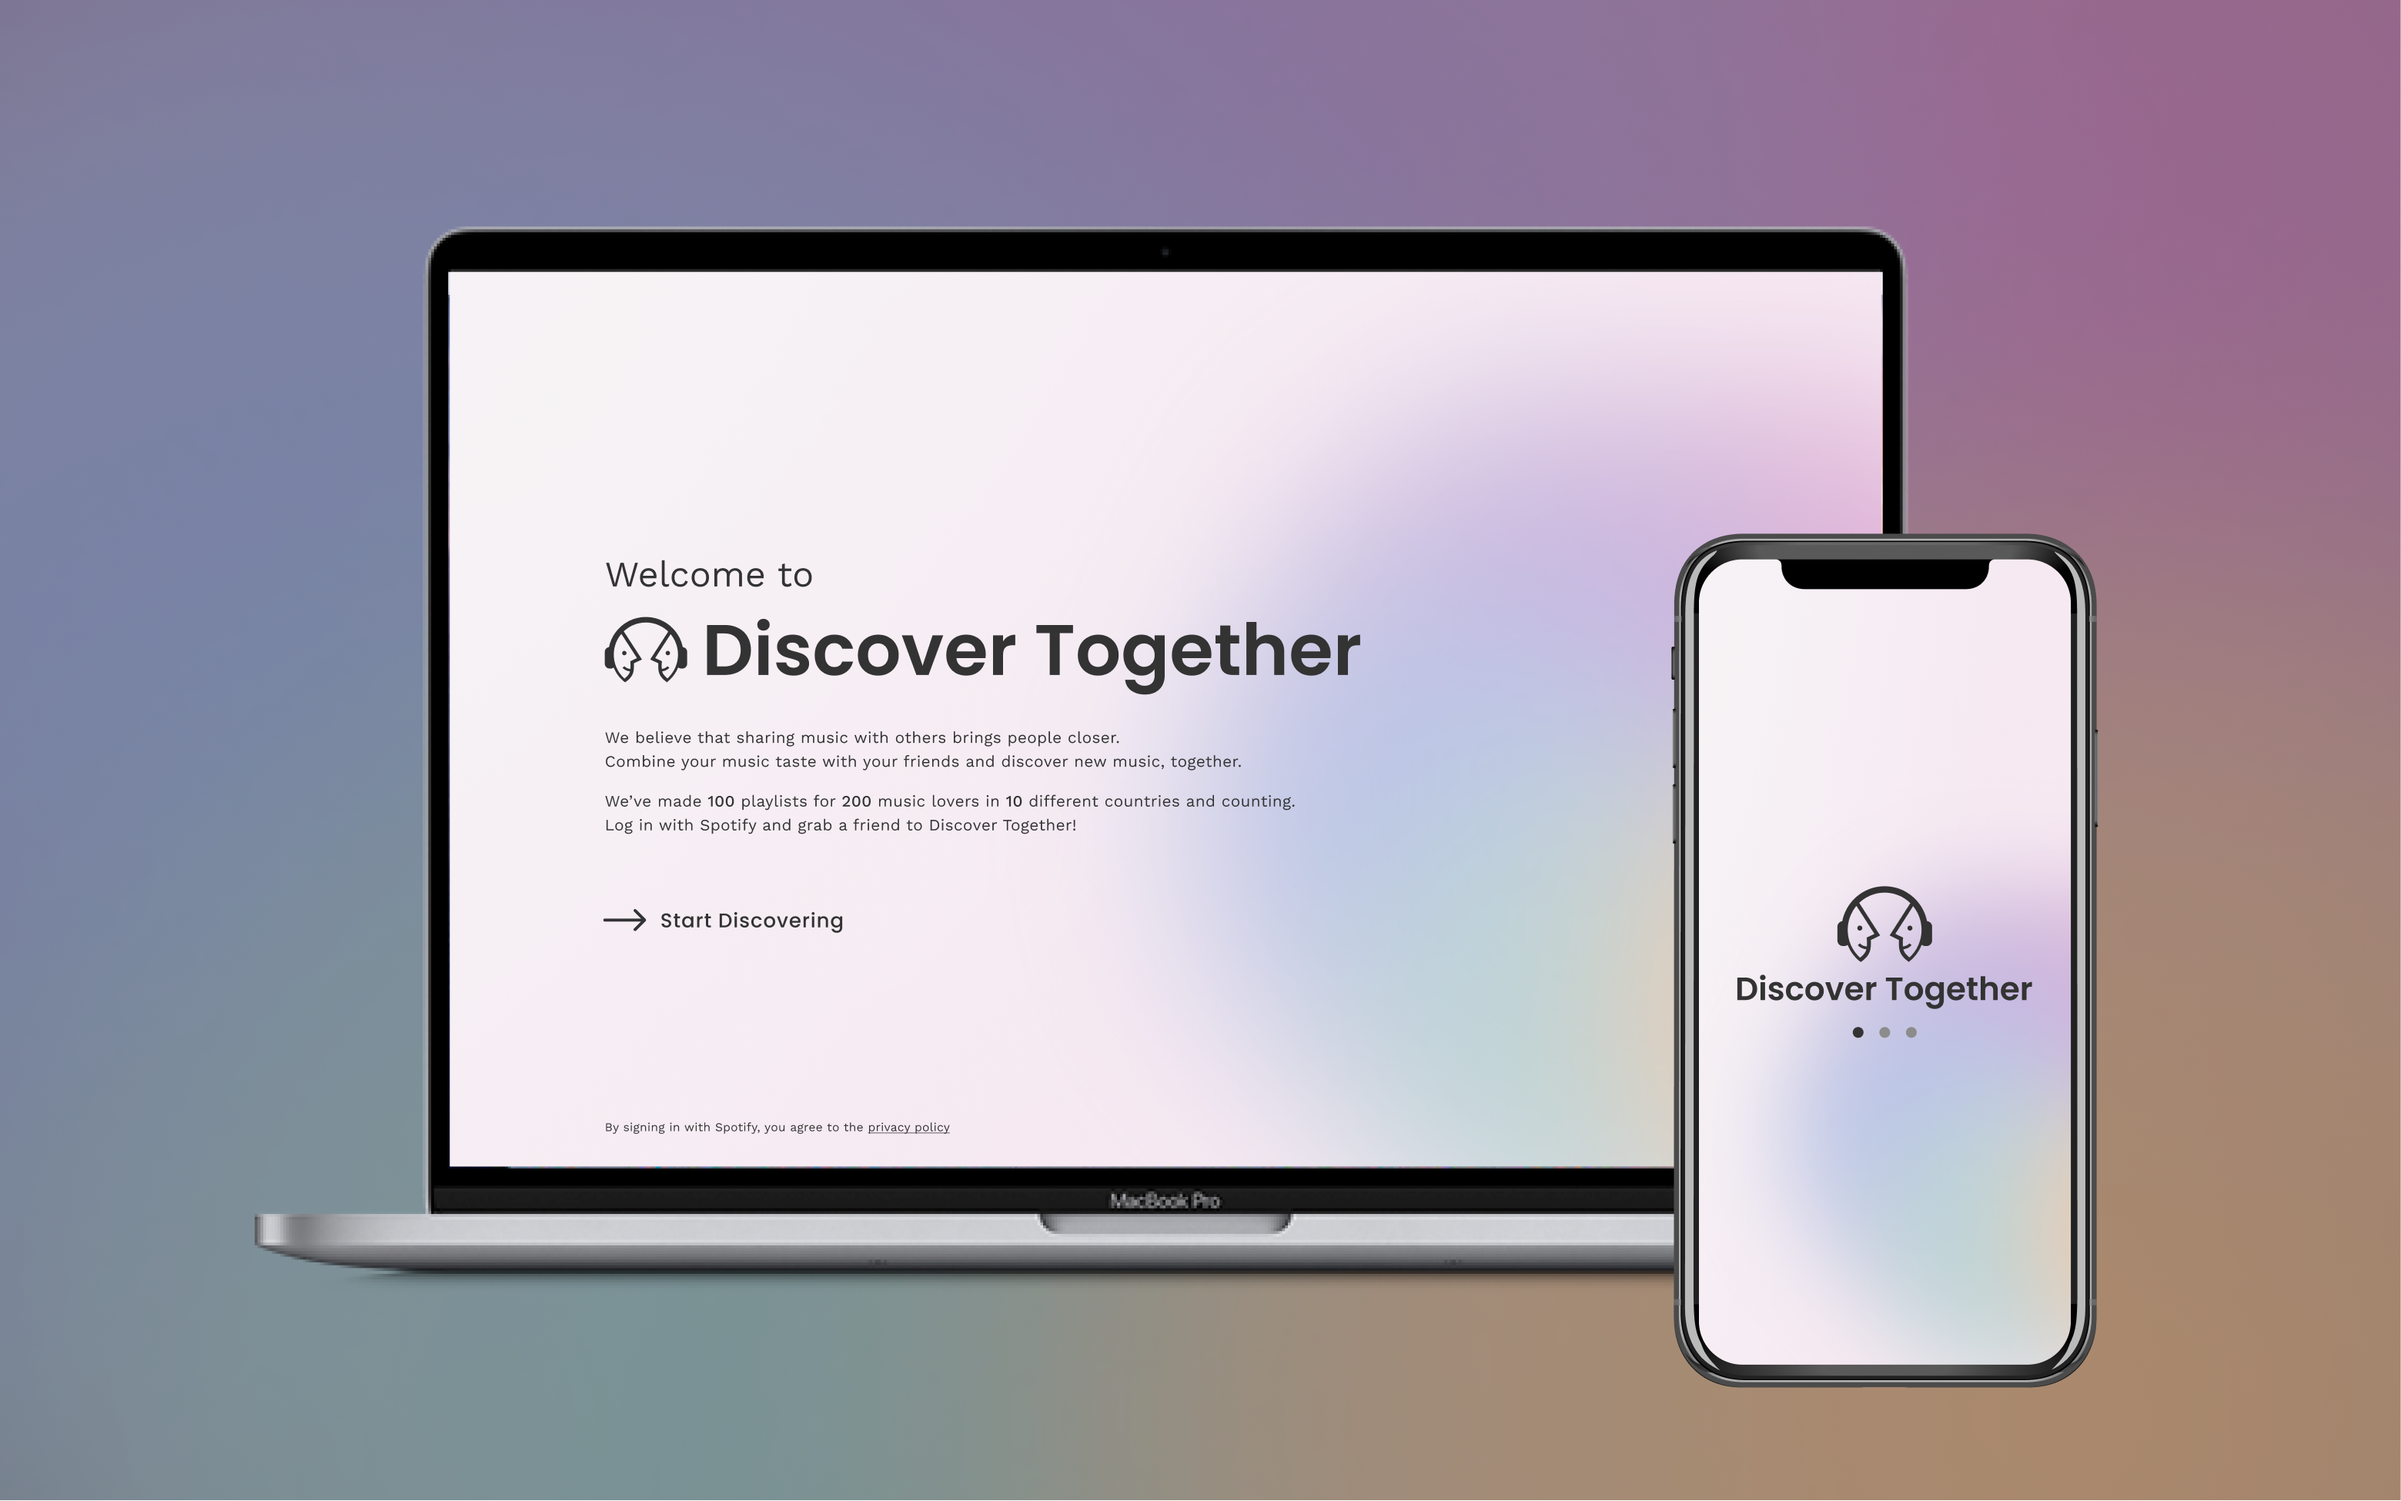
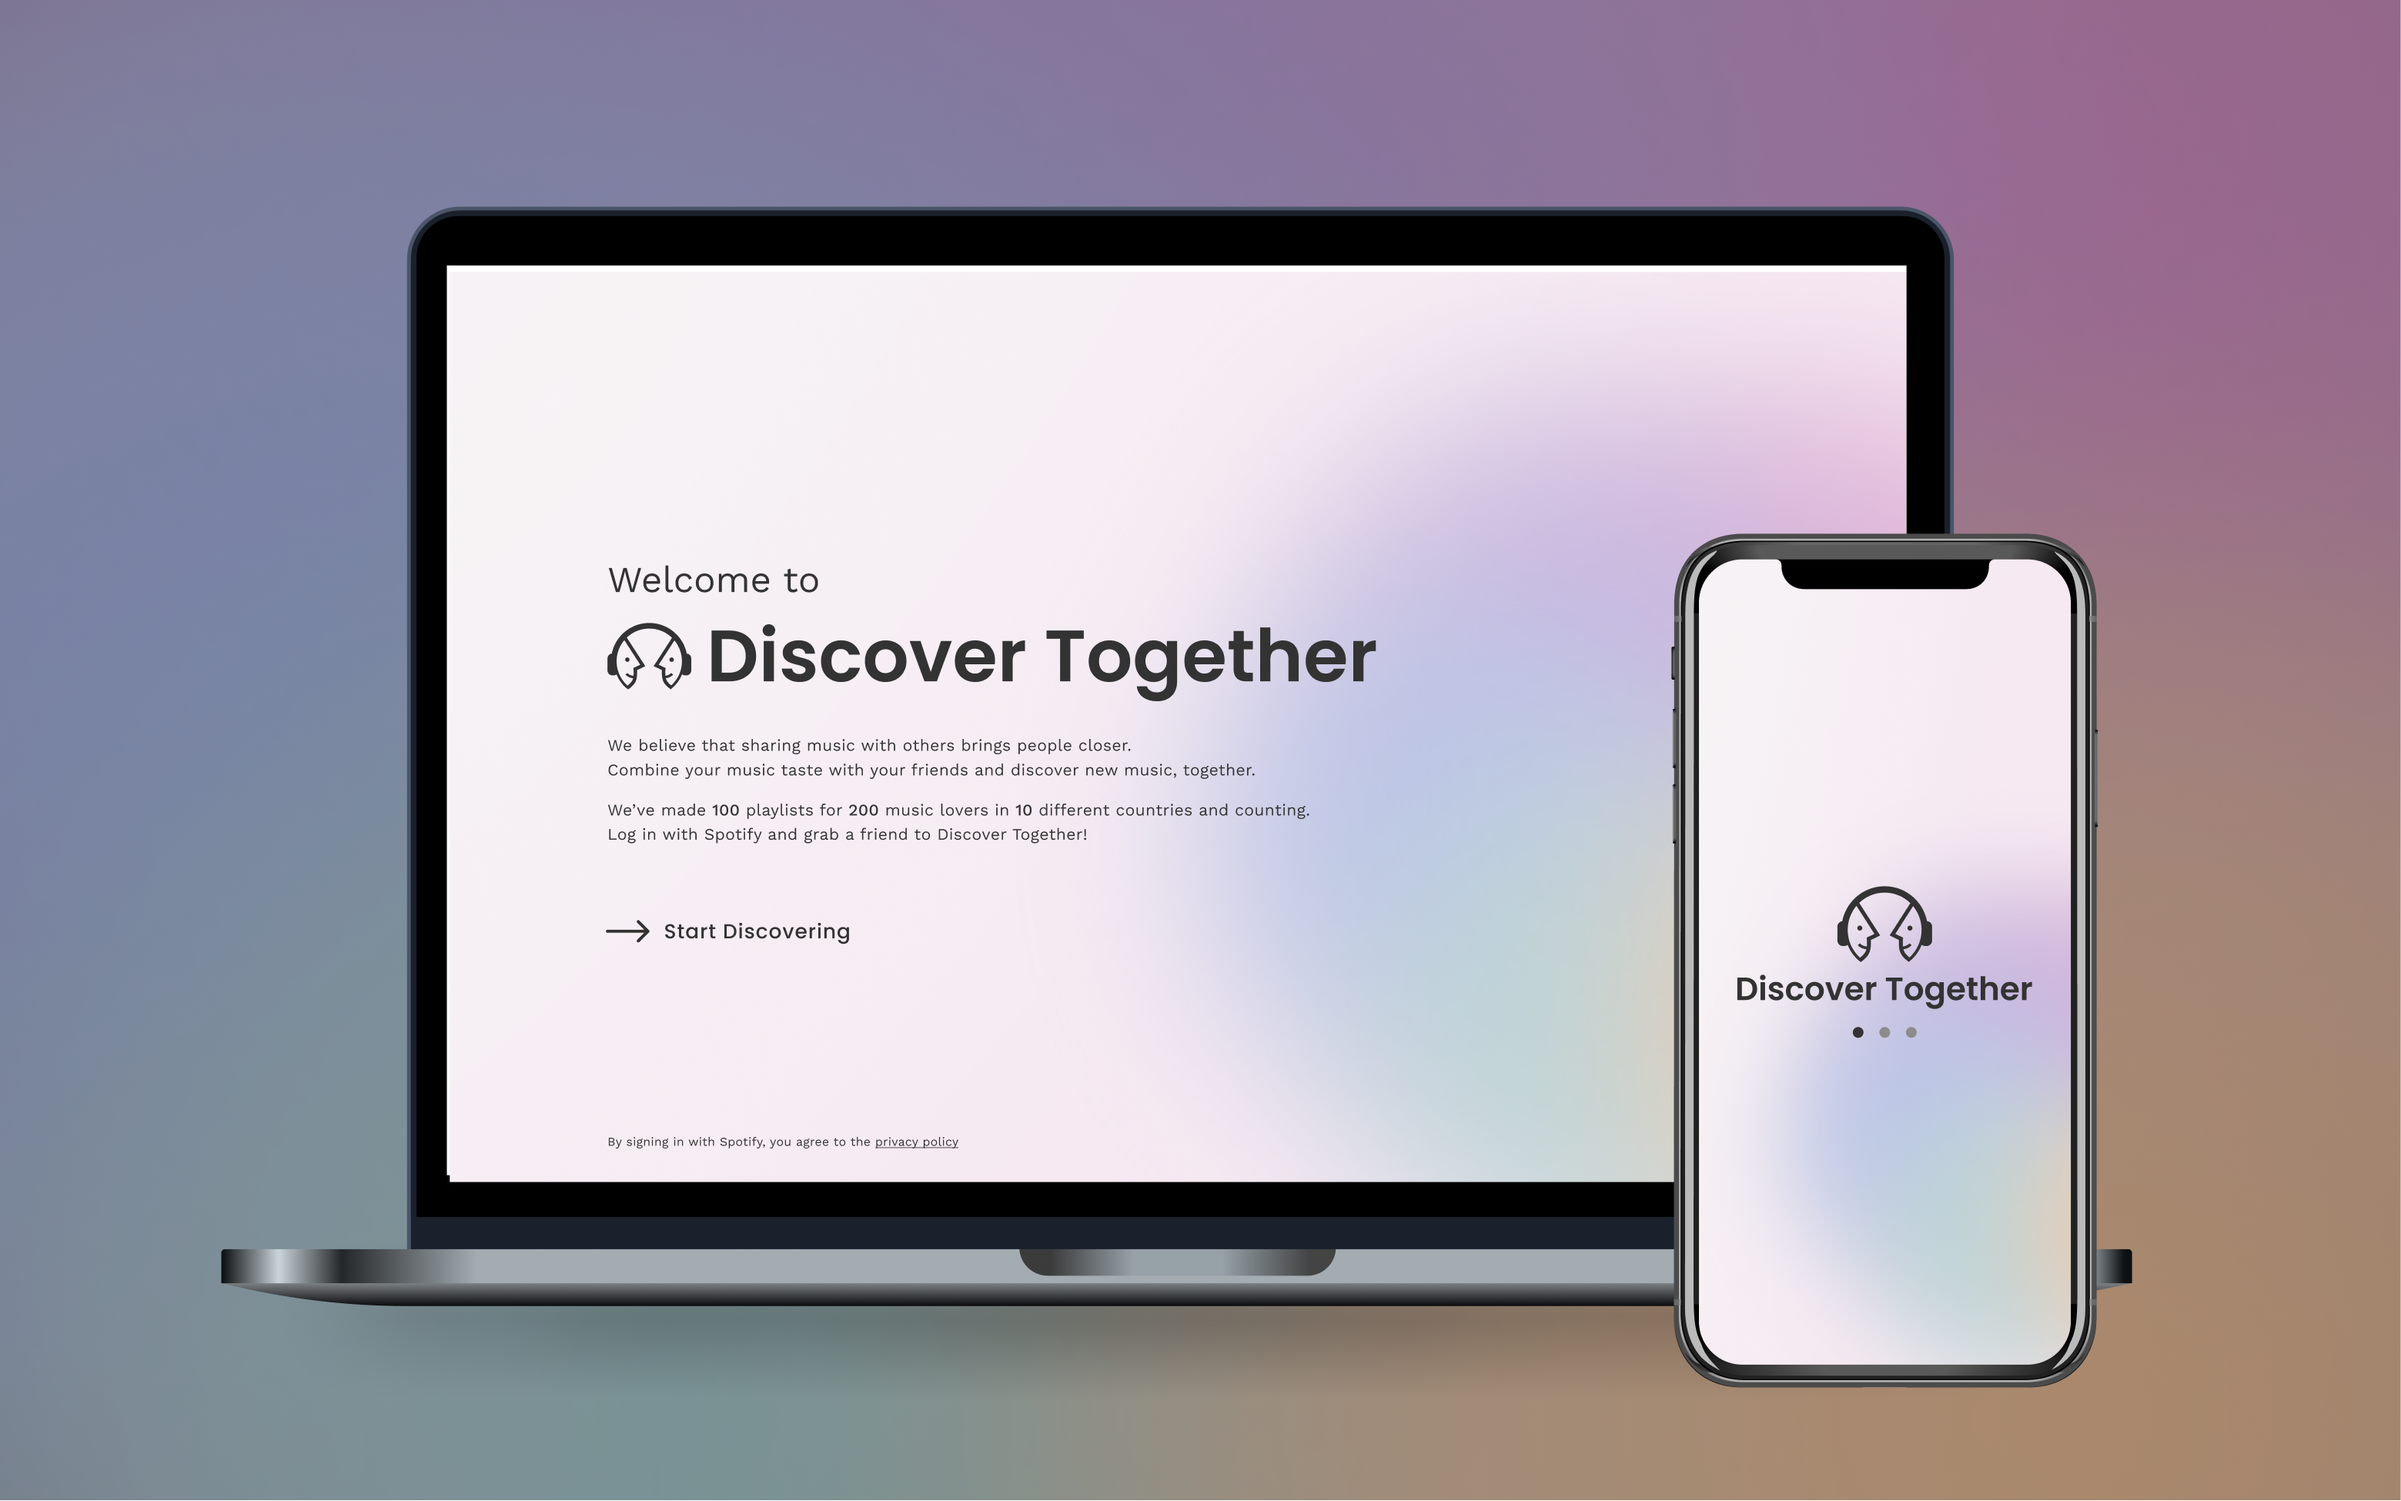
new changes

diff --git a/projects/spotify.html b/projects/spotify.html
@@ -22,6 +22,8 @@
 
     <!--GOOGLE FONTs-->
     <link href="https://fonts.googleapis.com/css2?family=Poppins:wght@200;300;400;500;600;700&display=swap" rel="stylesheet">
+    <link rel="preconnect" href="https://fonts.gstatic.com">
+    <link href="https://fonts.googleapis.com/css2?family=Merriweather:wght@700&display=swap" rel="stylesheet">
 
     <!--BOOTSTRAP-->
     <link rel="stylesheet" href="https://maxcdn.bootstrapcdn.com/bootstrap/4.4.1/css/bootstrap.min.css">
@@ -50,38 +52,33 @@
         </ul>
     </div>
 
+    <div class="proj-images">
+        <img src="spotify-assets/main-photo.png" alt="Discover Together">
+    </div>
+
     <div class="project">
-        <!-- sidebar -->
-        <div class="side-info">
-            <div class="fixed">
-                <h1>Discover Together</h1>
-
-                <h2>Objective</h2>
-                <p>Provide a platform to analyze two people's Spotify music tastes, then curate a playlist made specifically for them. </p>
-
-                <h2>Team</h2>
-                <p style="margin-bottom: 0"> <a class="highlight" href="https://www.linkedin.com/in/arjun-reddy-data-scientist/">Arjun Reddy (Engineer)</a>,</p>
-                <p style="margin-bottom: 0"> <a class="highlight" href="https://www.linkedin.com/in/trustinyoon/">Trustin Yoon (Engineer)</a>,</p>
-                <p style="margin-bottom: 0"> <a class="highlight" href="https://www.linkedin.com/in/niyant-n/">Niyant Narang (Engineer)</a>,</p>
-                <p style="margin-bottom: 0"> <a class="highlight" href="https://www.linkedin.com/in/lamvpham/">Lam Pham (Designer)</a>,</p>
-                <p style="margin-bottom: 0"> <a class="highlight" href="https://www.linkedin.com/in/connect-ann-li/">Ann Li (Designer)</a>,</p>
-                <p> <a a class="highlight" href="https://www.linkedin.com/in/lucasabroms/">Lucas Abroms (Engineer)</a></p>
-
-                <h2>Role</h2>
-                <p>Interaction Design, Prototyping, UI/UX Design, Visual Design, Data Visualization</p>
-
-                <h2>Tools</h2>
-                <p>Figma</p>
-
-                <h2>Duration</h2>
-                <p>6 weeks, Fall 2020</p>
-            </div>
-        </div>
-
         <!-- content -->
         <div class="proj-content">
-            <div class="proj-images">
-                <img src="spotify-assets/main-photo.png" alt="Discover Together" style="margin-top: 5px;">
+
+            <div class="section">
+                <div class="proj-text">
+                    <div class="text-group title">
+                        <h1>Discover Together</h1>
+                        <h2>A platform to analyze two people's Spotify music tastes, then curate a playlist made specifically for them.</h2>
+                    </div>
+                </div>
+                <!-- <div class="text-container">
+                    <div class="row">
+                        <div class="col-md stats">
+                            <h3>Responsibility</h3>
+                            <h2>Interaction Design, Prototyping, UI/UX Design, Visual Design, Data Visualization</h2>
+                        </div>
+                        <div class="col-md stats">
+                            <h3>Duration</h3>
+                            <h2>6 weeks and counting, Fall 2020</h2>
+                        </div>
+                    </div>
+                </div> -->
             </div>
 
             <!-- context -->

diff --git a/index.html b/index.html
@@ -198,21 +198,7 @@
 
             <!-- project cards -->
 
-            <div class="container pjcontain edges margin-t-6" onclick="" style="cursor: pointer;">
-                <div class="hiddencard row">
-                    <img src="project-cards/labs.png" width="100%">
-                    <div class="pj-contain">
-                        <h4> Coming Soon ☺ </h4>
-                    </div>
-                </div>
-                <div class="pj-contain">
-                    <h2> Product Design</h2>
-                    <h1> Ceridian</h1>
-                    <h3> Currently on internship</h3>
-                </div>
-            </div>
-
-            <div class="container pjcontain edges" onclick="location.href='projects/spotify.html';" style="cursor: pointer;">
+            <div class="container pjcontain edges margin-t-6" onclick="location.href='projects/spotify.html';" style="cursor: pointer;">
                 <div class="hiddencard row">
                     <img src="project-cards/soundwave.png" width="100%">
                     <div class="pj-contain">
@@ -242,20 +228,6 @@
 
             <div class="container pjcontain edges" onclick="" style="cursor: pointer;">
                 <div class="hiddencard row">
-                    <img src="project-cards/synqrinus.png" width="100%">
-                    <div class="pj-contain">
-                        <h4> See work → </h4>
-                    </div>
-                </div>
-                <div class="pj-contain">
-                    <h2> Front-end Development </h2>
-                    <h1> Synqrinus</h1>
-                    <h3> Freelancing on company website constructions </h3>
-                </div>
-            </div>
-
-            <div class="container pjcontain edges" onclick="" style="cursor: pointer;">
-                <div class="hiddencard row">
                     <img src="project-cards/communifund.png" width="100%">
                     <div class="pj-contain">
                         <h4> Coming Soon ☺ </h4>
@@ -265,6 +237,20 @@
                     <h2> UX/UI Design </h2>
                     <h1> Communifund </h1>
                     <h3> Creating a platform meant for communities </h3>
+                </div>
+            </div>
+
+            <div class="container pjcontain edges" onclick="" style="cursor: pointer;">
+                <div class="hiddencard row">
+                    <img src="project-cards/synqrinus.png" width="100%">
+                    <div class="pj-contain">
+                        <h4> See work → </h4>
+                    </div>
+                </div>
+                <div class="pj-contain">
+                    <h2> Front-end Development </h2>
+                    <h1> Synqrinus</h1>
+                    <h3> Freelancing on company website constructions </h3>
                 </div>
             </div>
 

diff --git a/projects.css b/projects.css
@@ -1,104 +1,12 @@
 /* new code for project sections */
 
 .project {
-    margin-top: 5em;
-}
-
-.project {
-    position: relative;
-    left: 9.5%;
-    width: 84%;
-    display: flex;
+    margin: 0 auto;
+    width: 70%;
 }
 
 .main-nav {
-    width: 88vh;
-}
-
-@media (max-height:945px) {
-    .main-nav {
-        width: 90.5vh;
-    }
-}
-
-@media (max-height:935px) {
-    .main-nav {
-        width: 90vh;
-    }
-}
-
-@media (max-height:925px) {
-    .main-nav {
-        width: 89.5vh;
-    }
-}
-
-@media (max-height:915px) {
-    .main-nav {
-        width: 89vh;
-    }
-}
-
-@media (max-height:905px) {
-    .main-nav {
-        width: 88.5vh;
-    }
-}
-
-@media (max-height:900px) {
-    .main-nav {
-        width: 88vh;
-    }
-}
-
-
-/* fixed side */
-
-.project .side-info {
-    width: 35%;
-    display: block;
-    top: 0;
-}
-
-.project .side-info .fixed {
-    top: 5rem;
-    position: sticky;
-}
-
-.project .side-info h1 {
-    margin-top: 0;
-    margin-bottom: 40px;
-    padding-right: 15px;
-    font-size: 2.5rem;
-    font-family: 'Poppins';
-    font-weight: 500;
-    width: 100%;
-}
-
-.project .side-info h2 {
-    font-size: 1.1em;
-    font-weight: 600;
-    margin-bottom: 10px;
-}
-
-.project .side-info p {
-    width: 70%;
-    margin-top: 0;
-    margin-bottom: 30px;
-    font-size: 1.1em;
-    line-height: 18px;
-    color: #9ea3a3;
-}
-
-.project .side-info p a {
-    color: #9ea3a3;
-    text-decoration: none;
-}
-
-.project .side-info p a:hover {
-    color: #fff;
-    transition: all 325ms;
-    cursor: crosshair;
+    width: 98vh;
 }
 
 
@@ -108,19 +16,26 @@
     margin-bottom: 5em;
 }
 
-.project .proj-content {
-    width: 60%;
-    display: block;
-    margin-left: 0;
-}
-
 .proj-images img {
     width: 100%;
     margin-bottom: 4em;
 }
 
 .project .proj-content .proj-text {
-    width: 70%;
+    width: 60%;
+    margin: 0 auto;
+}
+
+.section .proj-text .title h1 {
+    font-family: "Merriweather", serif;
+    color: #9ea3a3;
+    font-size: 6em;
+}
+
+.section .proj-text .title h2 {
+    color: #9ea3a3;
+    font-size: 2em;
+    margin-top: 1.25em;
 }
 
 .project .section-header p {
